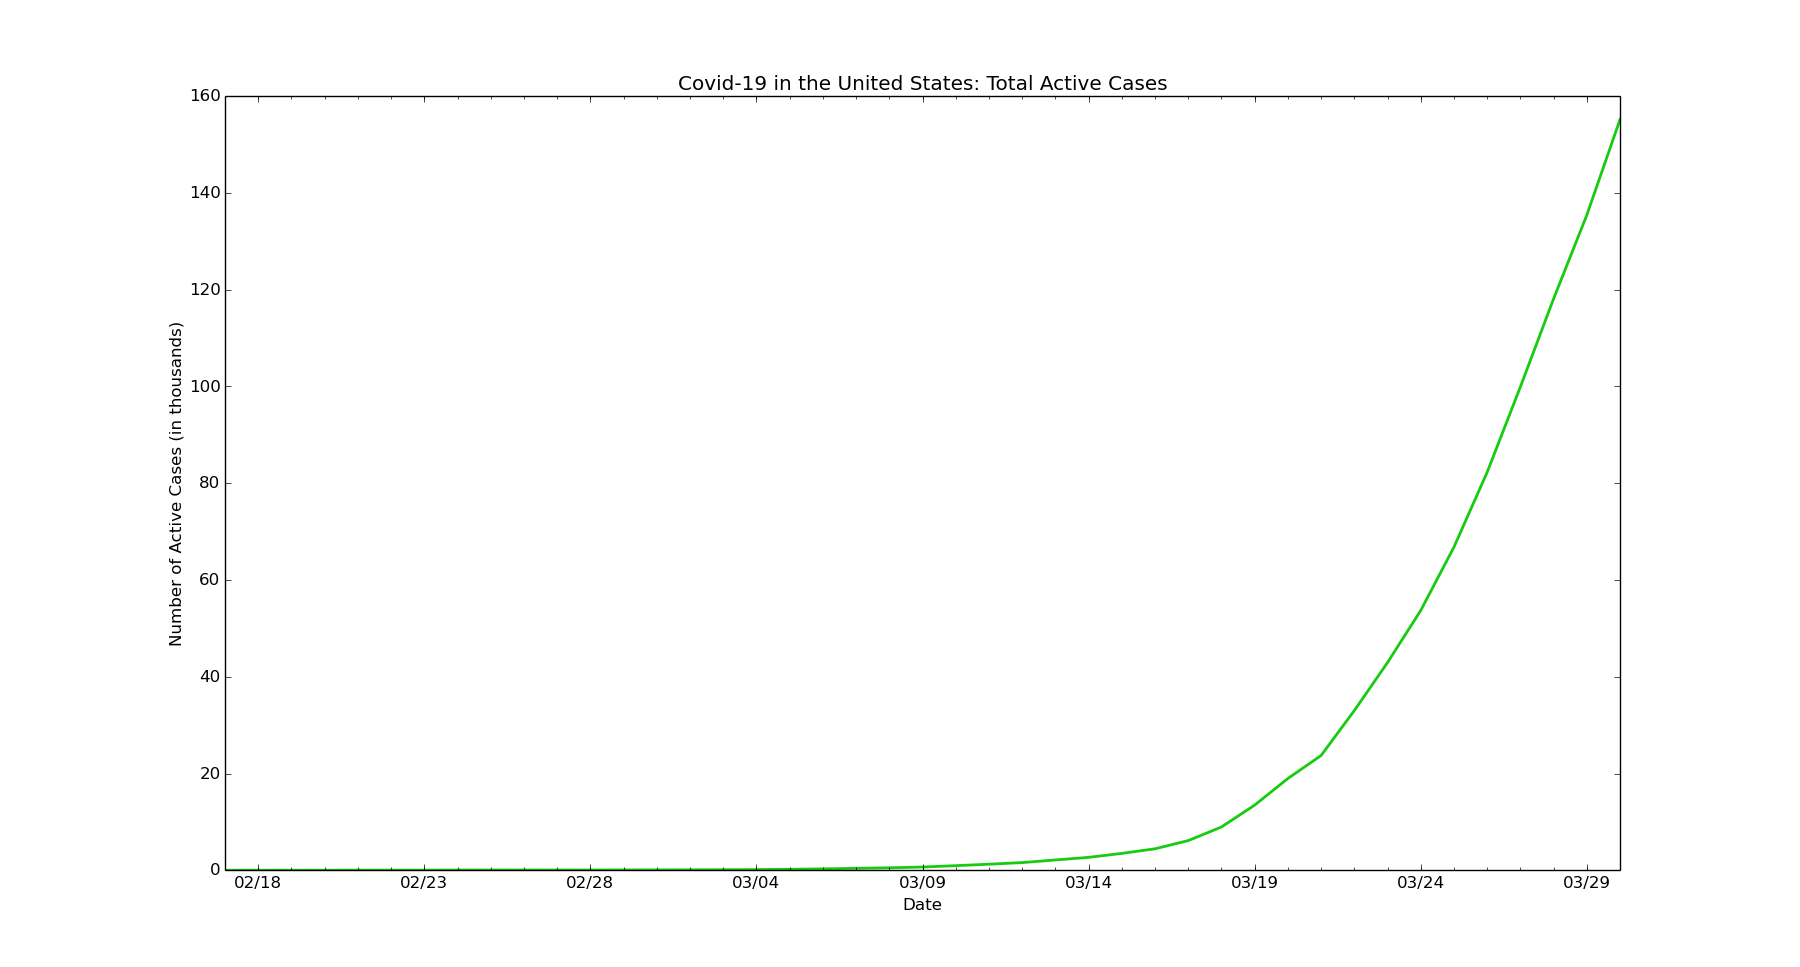
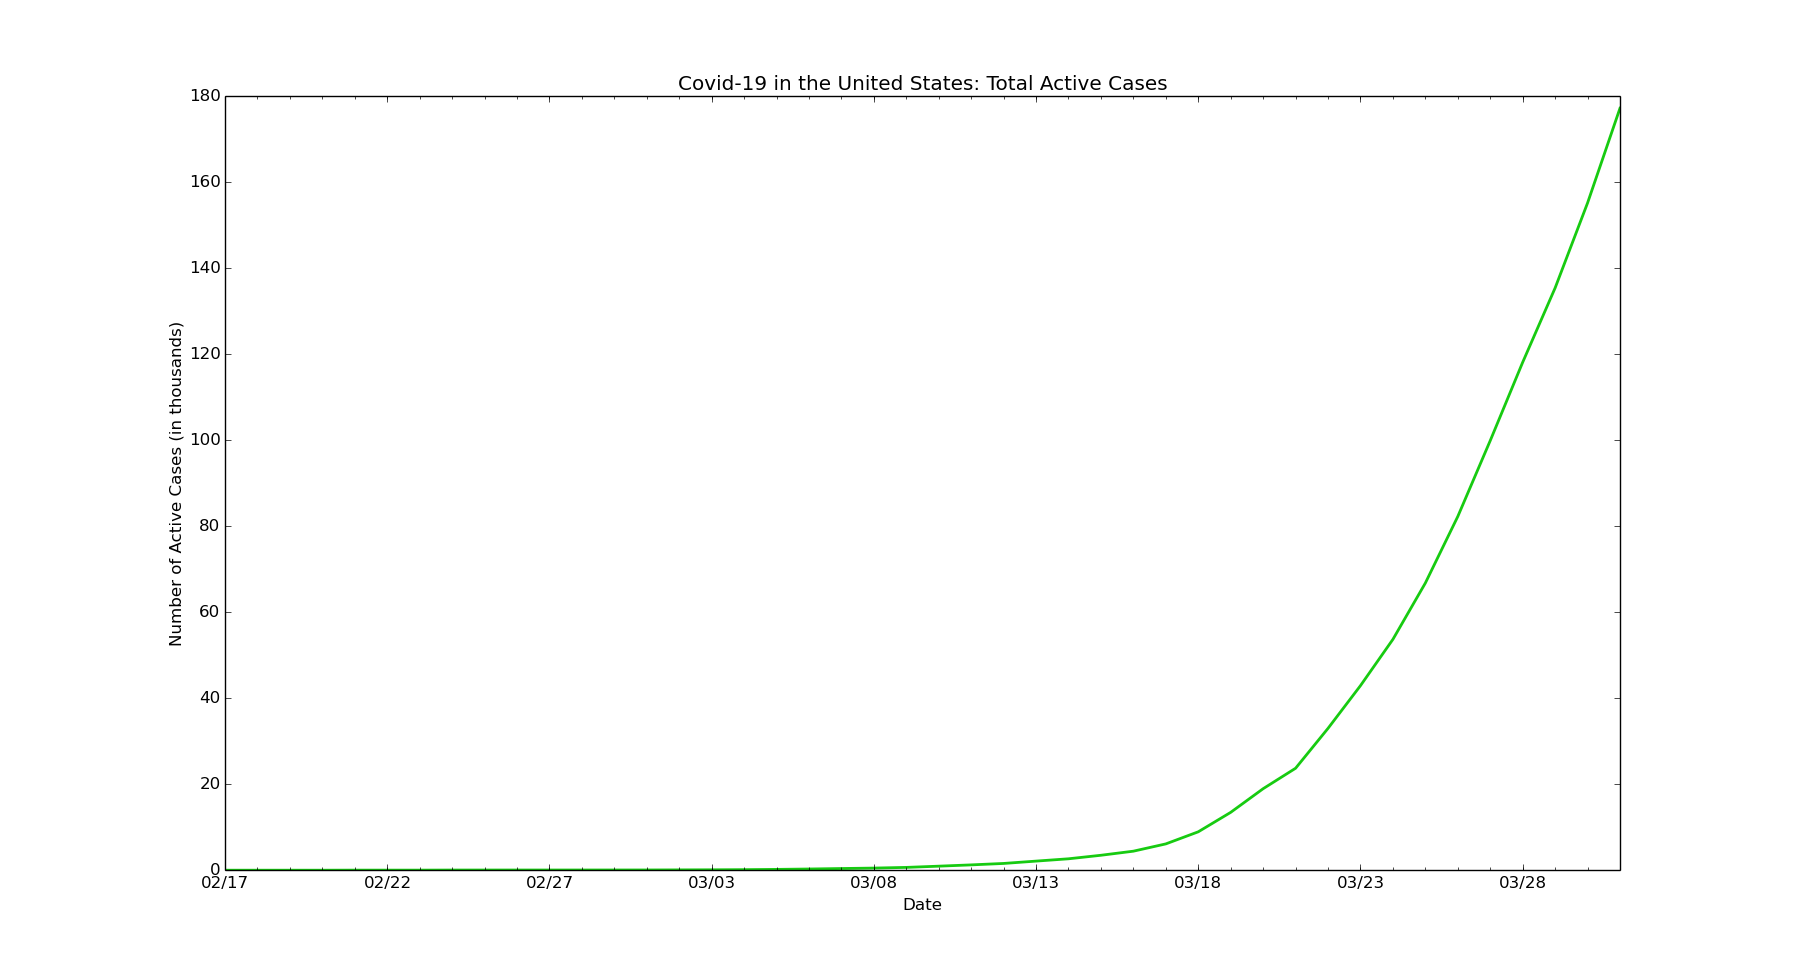
chore: Update data for USA

diff --git a/usa/us-active.py b/usa/us-active.py
@@ -6,7 +6,7 @@ import matplotlib.dates as mdates
 import matplotlib.ticker as ticker
 from matplotlib.dates import MO, TU, WE, TH, FR, SA, SU
 
-dates = ['2/17/2020', '2/18/2020', '2/19/2020', '2/20/2020', '2/21/2020', '2/22/2020', '2/23/2020', '2/24/2020', '2/25/2020', '2/26/2020', '2/27/2020', '2/28/2020', '2/29/2020', '3/1/2020', '3/2/2020', '3/3/2020', '3/4/2020', '3/5/2020', '3/6/2020', '3/7/2020', '3/8/2020', '3/9/2020', '3/10/2020', '3/11/2020', '3/12/2020', '3/13/2020', '3/14/2020', '3/15/2020', '3/16/2020', '3/17/2020', '3/18/2020', '3/19/2020', '3/20/2020', '3/21/2020', '3/22/2020', '3/23/2020', '3/24/2020', '3/25/2020', '3/26/2020', '3/27/2020', '3/28/2020', '3/29/2020', '3/30/2020']
+dates = ['2/17/2020', '2/18/2020', '2/19/2020', '2/20/2020', '2/21/2020', '2/22/2020', '2/23/2020', '2/24/2020', '2/25/2020', '2/26/2020', '2/27/2020', '2/28/2020', '2/29/2020', '3/1/2020', '3/2/2020', '3/3/2020', '3/4/2020', '3/5/2020', '3/6/2020', '3/7/2020', '3/8/2020', '3/9/2020', '3/10/2020', '3/11/2020', '3/12/2020', '3/13/2020', '3/14/2020', '3/15/2020', '3/16/2020', '3/17/2020', '3/18/2020', '3/19/2020', '3/20/2020', '3/21/2020', '3/22/2020', '3/23/2020', '3/24/2020', '3/25/2020', '3/26/2020', '3/27/2020', '3/28/2020', '3/29/2020', '3/30/2020', '3/31/2020']
 
 # format dates
 x_values = [datetime.datetime.strptime(d, "%m/%d/%Y").date() for d in dates]
@@ -24,7 +24,7 @@ ax.xaxis.set_minor_locator(mdates.WeekdayLocator(byweekday=(MO, TU, WE, TH, FR, 
 ax.get_yaxis().set_major_formatter(ticker.FuncFormatter(lambda x, pos: format(int(x/1000))))
 
 # active cases by day
-active = [12, 12, 12, 10, 29, 29, 28, 48, 51, 54, 54, 57, 60, 65, 85, 106, 138, 200, 289, 401, 504, 663, 949, 1248, 1581, 2126, 2664, 3484, 4434, 6127, 8940, 13464, 18965, 23720, 33000, 42930, 53697, 66790, 82272, 99908, 118126, 135417, 155182]
+active = [12, 12, 12, 10, 29, 29, 28, 48, 51, 54, 54, 57, 60, 65, 85, 106, 138, 200, 289, 401, 504, 663, 949, 1248, 1581, 2126, 2664, 3484, 4434, 6127, 8940, 13464, 18965, 23720, 33000, 42930, 53697, 66790, 82272, 99908, 118126, 135417, 155182, 177226]
 
 # text labels
 plt.title('Covid-19 in the United States: Total Active Cases')

diff --git a/usa/us-rvd.py b/usa/us-rvd.py
@@ -6,7 +6,7 @@ import matplotlib.dates as mdates
 import matplotlib.ticker as ticker
 from matplotlib.dates import MO, TU, WE, TH, FR, SA, SU
 
-dates = ['2/25/2020', '2/26/2020', '2/27/2020', '2/28/2020', '2/29/2020', '3/1/2020', '3/2/2020', '3/3/2020', '3/4/2020', '3/5/2020', '3/6/2020', '3/7/2020', '3/8/2020', '3/9/2020', '3/10/2020', '3/11/2020', '3/12/2020', '3/13/2020', '3/14/2020', '3/15/2020', '3/16/2020', '3/17/2020', '3/18/2020', '3/19/2020', '3/20/2020', '3/21/2020', '3/22/2020', '3/23/2020', '3/24/2020', '3/25/2020', '3/26/2020', '3/27/2020', '3/28/2020', '3/29/2020', '3/30/2020']
+dates = ['2/25/2020', '2/26/2020', '2/27/2020', '2/28/2020', '2/29/2020', '3/1/2020', '3/2/2020', '3/3/2020', '3/4/2020', '3/5/2020', '3/6/2020', '3/7/2020', '3/8/2020', '3/9/2020', '3/10/2020', '3/11/2020', '3/12/2020', '3/13/2020', '3/14/2020', '3/15/2020', '3/16/2020', '3/17/2020', '3/18/2020', '3/19/2020', '3/20/2020', '3/21/2020', '3/22/2020', '3/23/2020', '3/24/2020', '3/25/2020', '3/26/2020', '3/27/2020', '3/28/2020', '3/29/2020', '3/30/2020', '3/31/2020']
 
 # format dates
 x_values = [datetime.datetime.strptime(d, "%m/%d/%Y").date() for d in dates]
@@ -24,10 +24,10 @@ ax.xaxis.set_minor_locator(mdates.WeekdayLocator(byweekday=(MO, TU, WE, TH, FR, 
 ax.get_yaxis().set_major_formatter(ticker.FuncFormatter(lambda x, pos: format(int(x), ',')))
 
 # recoveries by day
-recoveries = [6, 6, 6, 6, 7, 9, 9, 9, 9, 9, 15, 15, 15, 15, 15, 15, 15, 15, 49, 60, 75, 107, 107, 109, 147, 171, 178, 296, 379, 394, 1868, 2522, 3223, 4840, 5506]
+recoveries = [6, 6, 6, 6, 7, 9, 9, 9, 9, 9, 15, 15, 15, 15, 15, 15, 15, 15, 49, 60, 75, 107, 107, 109, 147, 171, 178, 296, 379, 394, 1868, 2522, 3223, 4840, 5506, 7251]
 
 # deaths by day
-deaths = [0, 0, 0, 0, 1, 1, 6, 9, 11, 12, 15, 19, 22, 26, 30, 38, 41, 48, 57, 69, 87, 110, 150, 206, 255, 301, 414, 555, 780, 1027, 1295, 1696, 2229, 2489, 3156]
+deaths = [0, 0, 0, 0, 1, 1, 6, 9, 11, 12, 15, 19, 22, 26, 30, 38, 41, 48, 57, 69, 87, 110, 150, 206, 255, 301, 414, 555, 780, 1027, 1295, 1696, 2229, 2489, 3156, 4053]
 
 # create the graph
 plt.plot(x_values, recoveries, color='#12cfdf', linewidth=2)
